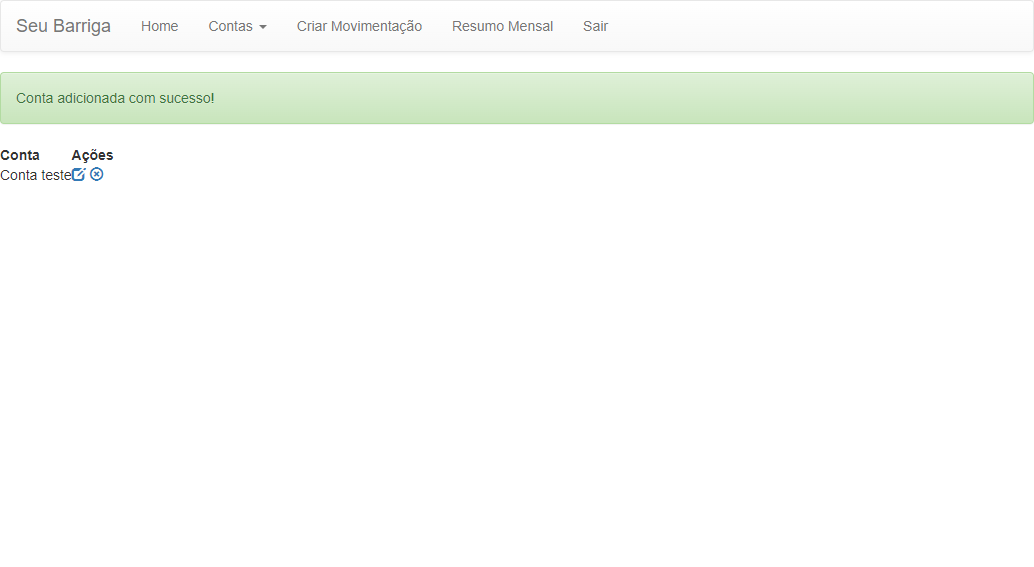
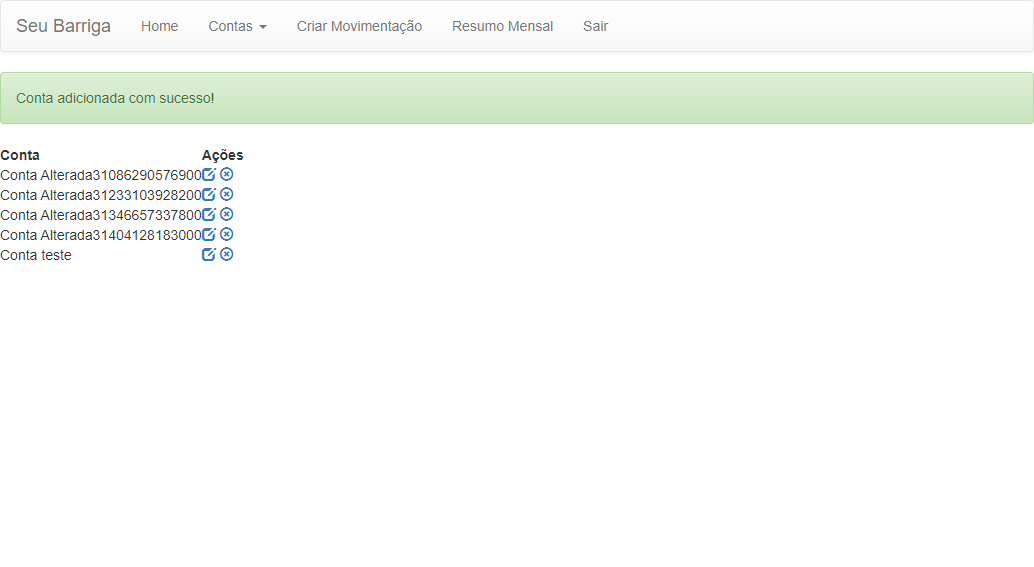
Diminuindo a execucao da suite de teste

Changed region(s): [[0.0, 0.2698, 0.2476, 0.4797]]

diff --git a/src/test/java/test/ContaTest.java b/src/test/java/test/ContaTest.java
@@ -7,6 +7,9 @@ import org.junit.Test;
 import org.junit.runners.MethodSorters;
 import page.ContasPage;
 import page.MenuPage;
+
+import static core.Propriedades.NOME_CONTA_ALTERADA;
+
 @FixMethodOrder(MethodSorters.NAME_ASCENDING)
 public class ContaTest extends BaseTest {
     MenuPage menuPage = new MenuPage();
@@ -26,7 +29,7 @@ public class ContaTest extends BaseTest {
 
         contasPage.clicarAlterarConta("Conta teste");
 
-        contasPage.setNome("Conta do Teste Alterada");
+        contasPage.setNome(NOME_CONTA_ALTERADA);
         contasPage.salvar();
 
         Assert.assertEquals("Conta alterada com sucesso!", contasPage.obterMensagemSucesso());
@@ -36,7 +39,7 @@ public class ContaTest extends BaseTest {
     public void test3_InserirContaMesmoNome(){
         menuPage.acessarTelaInserirConta();
 
-        contasPage.setNome("Conta do Teste Alterada");
+        contasPage.setNome(NOME_CONTA_ALTERADA);
         contasPage.salvar();
         Assert.assertEquals("Já existe uma conta com esse nome!", contasPage.obterMensagemErro());
     }

diff --git a/src/test/java/test/MovimentacaoTest.java b/src/test/java/test/MovimentacaoTest.java
@@ -14,6 +14,7 @@ import java.util.Arrays;
 import java.util.Date;
 import java.util.List;
 
+import static core.Propriedades.NOME_CONTA_ALTERADA;
 import static utils.DataUtils.obterDataFormatada;
 @FixMethodOrder(MethodSorters.NAME_ASCENDING)
 public class MovimentacaoTest extends BaseTest {
@@ -28,7 +29,7 @@ public class MovimentacaoTest extends BaseTest {
         page.setDescricao("Pagamento");
         page.setInteressado("Neto");
         page.setValor("1627");
-        page.setConta("Conta do Teste Alterada");
+        page.setConta(NOME_CONTA_ALTERADA);
         page.setSituacaoPago();
         page.salvar();
 
@@ -65,7 +66,7 @@ public class MovimentacaoTest extends BaseTest {
         page.setDescricao("Pagamento");
         page.setInteressado("Neto");
         page.setValor("1627");
-        page.setConta("Conta do Teste Alterada");
+        page.setConta(NOME_CONTA_ALTERADA);
         page.setSituacaoPago();
         page.salvar();
 

diff --git a/src/test/java/runner/Suite.java b/src/test/java/runner/Suite.java
@@ -1,6 +1,12 @@
 package runner;
 
+import base.BaseTest;
+import core.Propriedades;
+import org.junit.AfterClass;
+import org.junit.Before;
+import org.junit.BeforeClass;
 import org.junit.runner.RunWith;
+import page.LoginPage;
 import test.*;
 
 @RunWith(org.junit.runners.Suite.class)
@@ -11,5 +17,18 @@ import test.*;
       SaldoTest.class,
         ResumoTest.class
 })
-public class Suite {
+public class Suite{
+    private static LoginPage verificacao = new LoginPage();
+    @BeforeClass
+    public static void inicializa(){
+        verificacao.acessarTelaInicial();
+        verificacao.setEmail("neto@neto.com");
+        verificacao.setSenha("1234");
+        verificacao.entrar();
+    }
+
+    @AfterClass
+    public static void finalizar(){
+        Propriedades.FECHAR_BROWSER = true;
+    }
 }

diff --git a/src/test/java/test/RemoverMovimentacaoContaTest.java b/src/test/java/test/RemoverMovimentacaoContaTest.java
@@ -6,6 +6,8 @@ import org.junit.Test;
 import page.ContasPage;
 import page.MenuPage;
 
+import static core.Propriedades.NOME_CONTA_ALTERADA;
+
 public class RemoverMovimentacaoContaTest extends BaseTest {
     private MenuPage menuPage = new MenuPage();
     private ContasPage contasPage = new ContasPage();
@@ -13,7 +15,7 @@ public class RemoverMovimentacaoContaTest extends BaseTest {
     public void removerContaComMovimentacao(){
         menuPage.acessarListasConta();
 
-        contasPage.clicarRemoverConta("Conta do Teste Alterada");
+        contasPage.clicarRemoverConta(NOME_CONTA_ALTERADA);
         Assert.assertEquals("Conta em uso na movimentações", contasPage.obterMensagemErro());
     }
 }

diff --git a/src/test/java/test/SaldoTest.java b/src/test/java/test/SaldoTest.java
@@ -4,13 +4,17 @@ import base.BaseTest;
 import org.junit.Assert;
 import org.junit.Test;
 import page.HomePage;
+import page.MenuPage;
+
+import static core.Propriedades.NOME_CONTA_ALTERADA;
 
 public class SaldoTest extends BaseTest {
-
+private MenuPage menuPage = new MenuPage();
 private HomePage page = new HomePage();
     @Test
     public void testSaldoConta(){
-        Assert.assertEquals("1627.00", page.obterSaldoConta("Conta do Teste Alterada"));
+        menuPage.acessarTelaPrincipal();
+        Assert.assertEquals("1627.00", page.obterSaldoConta(NOME_CONTA_ALTERADA));
     }
 
 }

diff --git a/src/test/java/base/BaseTest.java b/src/test/java/base/BaseTest.java
@@ -17,17 +17,8 @@ import static core.DriverFactory.getDriver;
 import static core.DriverFactory.killDriver;
 
 public class BaseTest {
-    protected LoginPage verificacao = new LoginPage();
     @Rule
     public TestName testName = new TestName();
-    @Before
-    public void inicializa(){
-        verificacao.acessarTelaInicial();
-        verificacao.setEmail("neto@neto.com");
-        verificacao.setSenha("1234");
-        verificacao.entrar();
-
-    }
 
     @After
     public void fechar() throws IOException {

diff --git a/src/test/java/core/Propriedades.java b/src/test/java/core/Propriedades.java
@@ -1,9 +1,10 @@
 package core;
 
 public class Propriedades {
-    public static boolean FECHAR_BROWSER = true;
+    public static boolean FECHAR_BROWSER = false;
     public static Browsers browser = Browsers.CHROME;
 
+    public static  String NOME_CONTA_ALTERADA = "Conta Alterada" + System.nanoTime();
     public enum Browsers{
         CHROME,
         FIREFOX

diff --git a/src/test/java/page/MenuPage.java b/src/test/java/page/MenuPage.java
@@ -20,4 +20,8 @@ public class MenuPage extends BasePage {
     public void acessarTelaResumoMensal(){
         clicarLink("Resumo Mensal");
     }
+
+    public void acessarTelaPrincipal(){
+        clicarLink("Home");
+    }
 }

diff --git a/src/test/java/test/TestVerificacao.java b/src/test/java/test/TestVerificacao.java
@@ -7,6 +7,7 @@ import org.junit.Test;
 
 public class TestVerificacao extends BaseTest {
 
+private LoginPage verificacao = new LoginPage();
 
     @Test
     public void Verificar(){

diff --git a/src/test/java/base/BasePage.java b/src/test/java/base/BasePage.java
@@ -114,6 +114,7 @@ public class BasePage {
     }
 
     public void clicarBotaoPorTexto(String texto){
+
         clicar(By.xpath("//button[.='"+texto+"']"));
     }
 }
